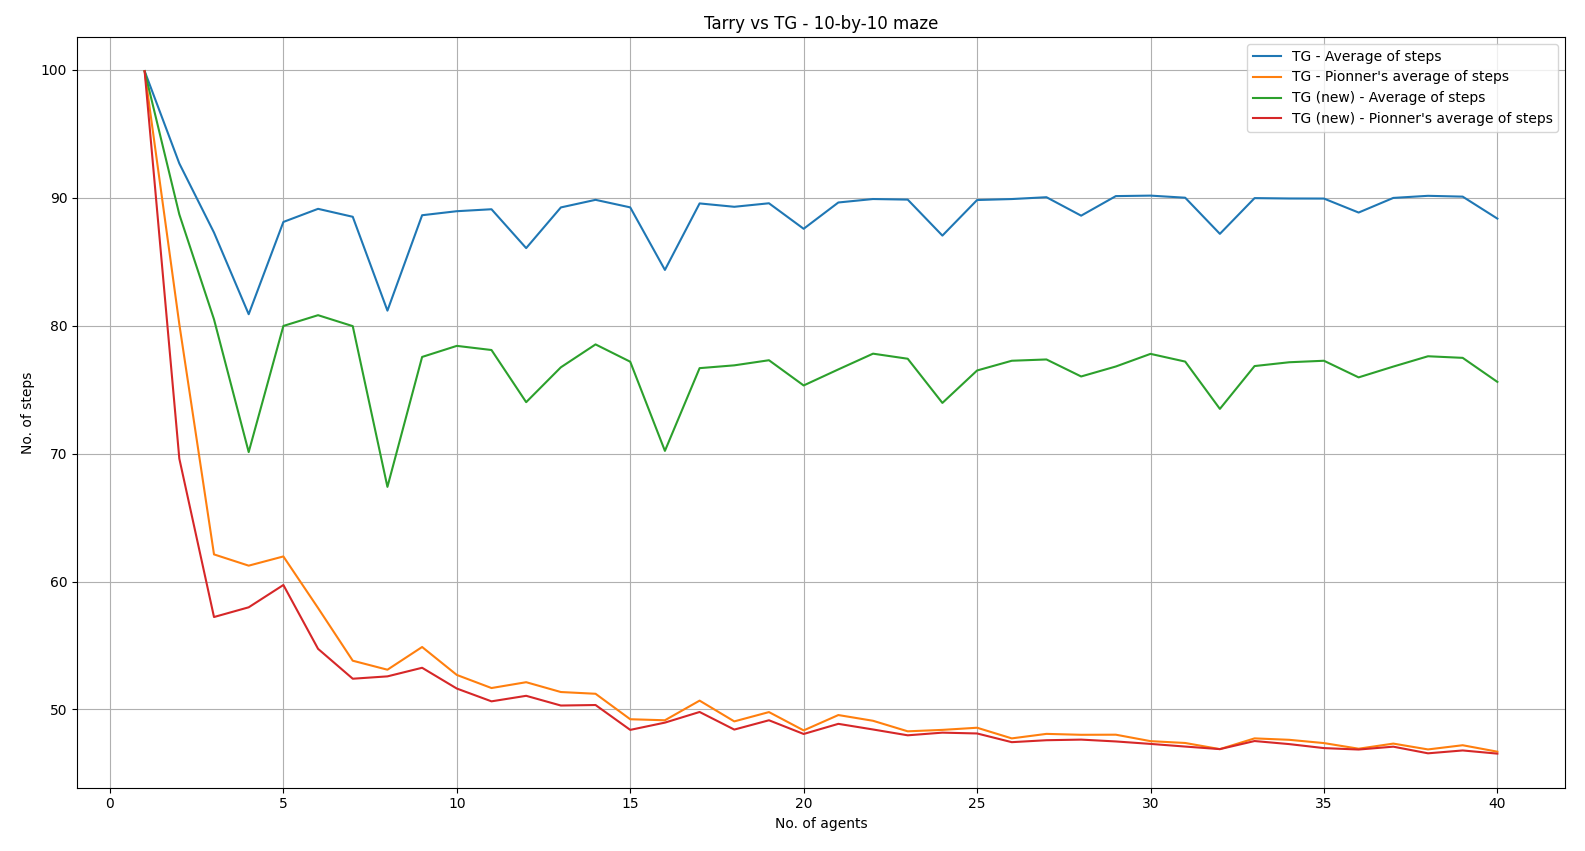
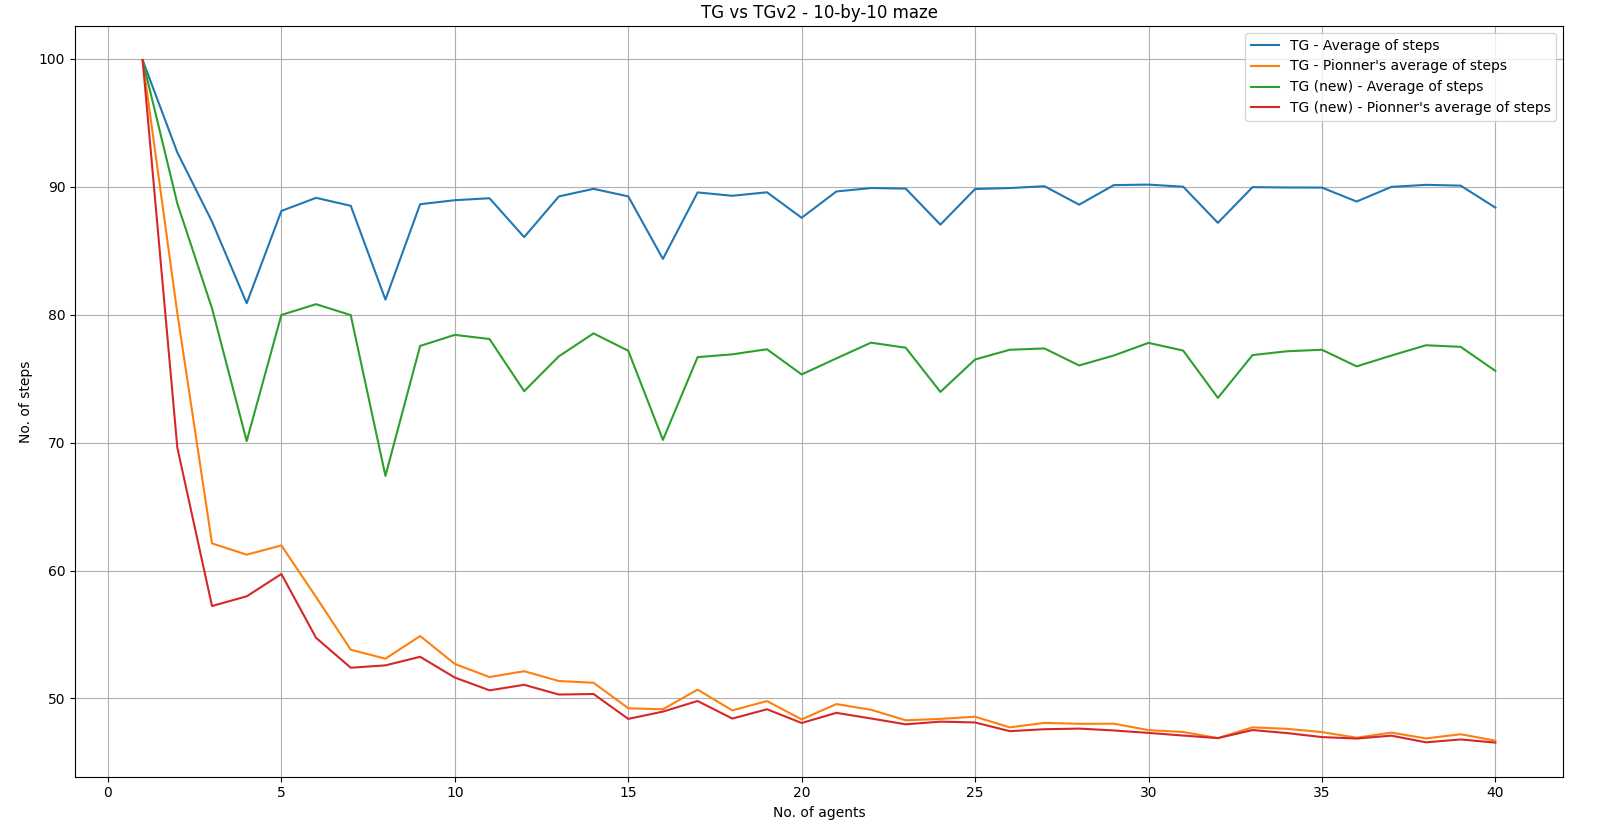
fixing caption

diff --git a/my_results.py b/my_results.py
@@ -17,7 +17,7 @@ tarry_stdev_row = rows[4]
 tarry_steps_from_first_to_last_row = rows[5] """
 
 rows = []
-with open("my_1to40agents_250iterations_40x40.csv", "r") as f:
+with open("my_1to40agents_250iterations_30x30.csv", "r") as f:
     csvreader = csv.reader(f)
 
     for row in csvreader:
@@ -32,7 +32,7 @@ my_fraction_pionner = rows[5]
 header = rows[0]
 
 rows = []
-with open("my_1to40agents_250iterations_40x40_v2.csv", "r") as f:
+with open("my_1to40agents_250iterations_30x30_v2.csv", "r") as f:
     csvreader = csv.reader(f)
 
     for row in csvreader:
@@ -54,15 +54,15 @@ plt.plot(header, my_pionner_steps_row, label = "TG: Pionner's average of steps")
 #plt.plot(header, my_fraction_row, label = "TG: Fraction of maze explored")
 plt.plot(header, my_fraction_pionner, label = "TG: Fraction of maze explored until pionner") """
 
-""" plt.plot(header, my_steps_row, label = "TG - Average of steps")
+plt.plot(header, my_steps_row, label = "TG - Average of steps")
 plt.plot(header, my_pionner_steps_row, label = "TG - Pionner's average of steps")
 plt.plot(header, my_v2_steps_row, label = "TG (new) - Average of steps")
-plt.plot(header, my_v2_pionner_steps_row, label = "TG (new) - Pionner's average of steps") """
+plt.plot(header, my_v2_pionner_steps_row, label = "TG (new) - Pionner's average of steps")
 
-plt.plot(header, my_fraction_row, label = "TG - Fraction of maze explored")
+""" plt.plot(header, my_fraction_row, label = "TG - Fraction of maze explored")
 plt.plot(header, my_fraction_pionner, label = "TG - Fraction of maze explored until pionner")
 plt.plot(header, my_v2_fraction_row, label = "TG (new) - Fraction of maze explored")
-plt.plot(header, my_v2_fraction_pionner, label = "TG (new) - Fraction of maze explored until pionner")
+plt.plot(header, my_v2_fraction_pionner, label = "TG (new) - Fraction of maze explored until pionner") """
 
 
 """ plt.plot(header, tarry_steps_row, label = "TARRY: Average")
@@ -72,9 +72,9 @@ plt.plot(header, tarry_steps_from_first_to_last_row, label = "TARRY: Average Ste
 
 
 plt.xlabel('No. of agents')
-#plt.ylabel('No. of steps')
-plt.ylabel('Fraction of maze explored')
-plt.title('Tarry vs TG - 40-by-40 maze')
+plt.ylabel('No. of steps')
+#plt.ylabel('Fraction of maze explored')
+plt.title('TG vs TGv2 - 30-by-30 maze')
 
 plt.grid()
 plt.legend()
